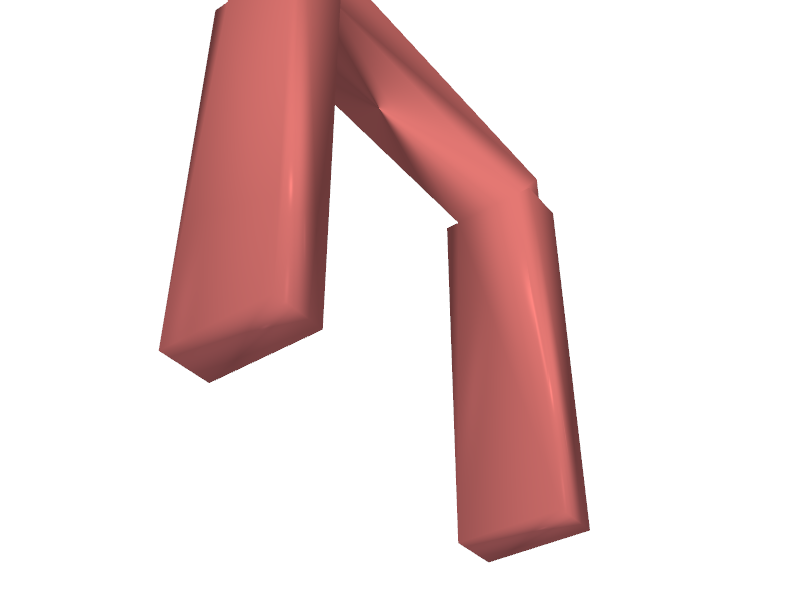
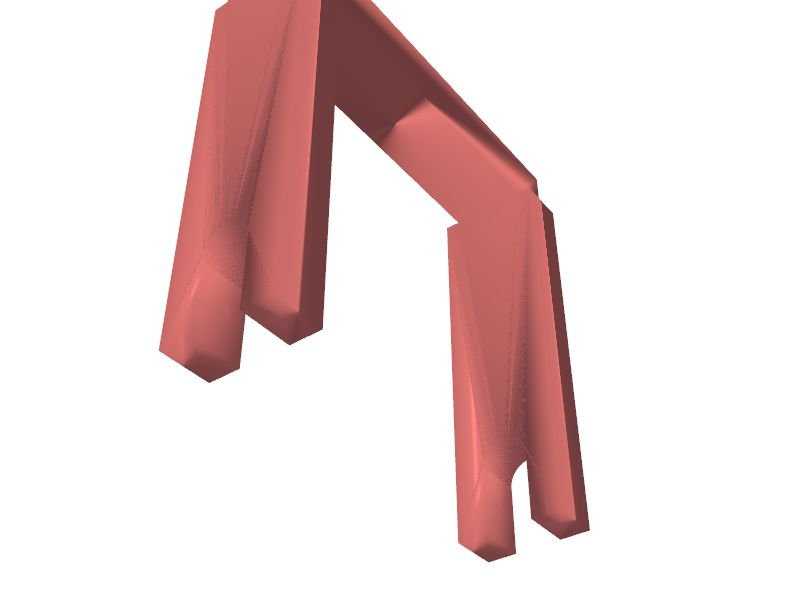
Fix U-frame axle slots and remove bearing pads
Slots were silently not cutting because build123d's move() mutates in
place — reusing one arm instance meant both arms pointed to the same
object after the second move(). Fixed by constructing each arm
independently and subtracting the slot cutter before moving to position.

Bearing pads removed as requested.

Changed region(s): [[0.1875, 0.0, 0.75, 0.93]]

diff --git a/purfroller.py b/purfroller.py
@@ -18,9 +18,6 @@ xbar_h   = 8.0        # U-frame top crossbar height
 xbar_x_d = 10.0       # U-frame top crossbar depth in X
 slot_w   = 6.1        # axle slot width in X (0.1mm clearance on 6mm axle)
 slot_d   = 12.0       # axle slot depth in Y (open at arm bottom, U-shaped)
-pad_sz   = 8.0        # M6 bearing-pad footprint (mm)
-pad_h    = 2.0        # M6 bearing-pad height (mm)
-
 # Z-centre of each arm: sits mid-way through the side plate, just outside the roller
 arm_z = roller_len / 2 + side_plate_t / 2   # = 24.0 mm
 
@@ -36,16 +33,16 @@ roller = (
 )
 
 # ── U-Frame ─────────────────────────────────────────────────────────────────
-# Arms — bottom face at Y=0, centred in X, positioned at ±arm_z in Z
-r_arm = Box(
-    arm_x_d, arm_h, arm_z_w,
-    align=(Align.CENTER, Align.MIN, Align.CENTER),
-).move(Location((0, 0,  arm_z)))
+# Axle slot cutter — U-shaped (rect + semicircular cap), open at Y=0
+# Build at origin and subtract before moving arms to position; move() mutates in
+# place so each arm must be constructed independently.
+slot_r      = slot_w / 2
+slot_rect   = Box(slot_w, slot_d - slot_r, arm_z_w + 2, align=(Align.CENTER, Align.MIN, Align.CENTER))
+slot_cap    = Cylinder(radius=slot_r, height=arm_z_w + 2).move(Location((0, slot_d - slot_r, 0)))
+slot_cutter = slot_rect + slot_cap
 
-l_arm = Box(
-    arm_x_d, arm_h, arm_z_w,
-    align=(Align.CENTER, Align.MIN, Align.CENTER),
-).move(Location((0, 0, -arm_z)))
+r_arm = (Box(arm_x_d, arm_h, arm_z_w, align=(Align.CENTER, Align.MIN, Align.CENTER)) - slot_cutter).move(Location((0, 0,  arm_z)))
+l_arm = (Box(arm_x_d, arm_h, arm_z_w, align=(Align.CENTER, Align.MIN, Align.CENTER)) - slot_cutter).move(Location((0, 0, -arm_z)))
 
 # Top crossbar — bottom flush with top of arms, spans full arm-to-arm width in Z
 xbar = Box(
@@ -53,24 +50,4 @@ xbar = Box(
     align=(Align.CENTER, Align.MIN, Align.CENTER),
 ).move(Location((0, arm_h, 0)))
 
-# M6 bearing pads on top of crossbar, centred above each arm
-r_pad = Box(
-    pad_sz, pad_h, pad_sz,
-    align=(Align.CENTER, Align.MIN, Align.CENTER),
-).move(Location((0, arm_h + xbar_h,  arm_z)))
-
-l_pad = Box(
-    pad_sz, pad_h, pad_sz,
-    align=(Align.CENTER, Align.MIN, Align.CENTER),
-).move(Location((0, arm_h + xbar_h, -arm_z)))
-
-# Axle slots — U-shaped (rectangular lower portion + semicircular cap), open at Y=0
-slot_r = slot_w / 2
-slot_rect = Box(slot_w, slot_d - slot_r, arm_z_w + 2, align=(Align.CENTER, Align.MIN, Align.CENTER))
-slot_cap  = Cylinder(radius=slot_r, height=arm_z_w + 2).move(Location((0, slot_d - slot_r, 0)))
-slot_cutter = slot_rect + slot_cap
-
-r_slot = slot_cutter.move(Location((0, 0,  arm_z)))
-l_slot = slot_cutter.move(Location((0, 0, -arm_z)))
-
-u_frame = (r_arm + l_arm + xbar + r_pad + l_pad) - r_slot - l_slot
+u_frame = r_arm + l_arm + xbar